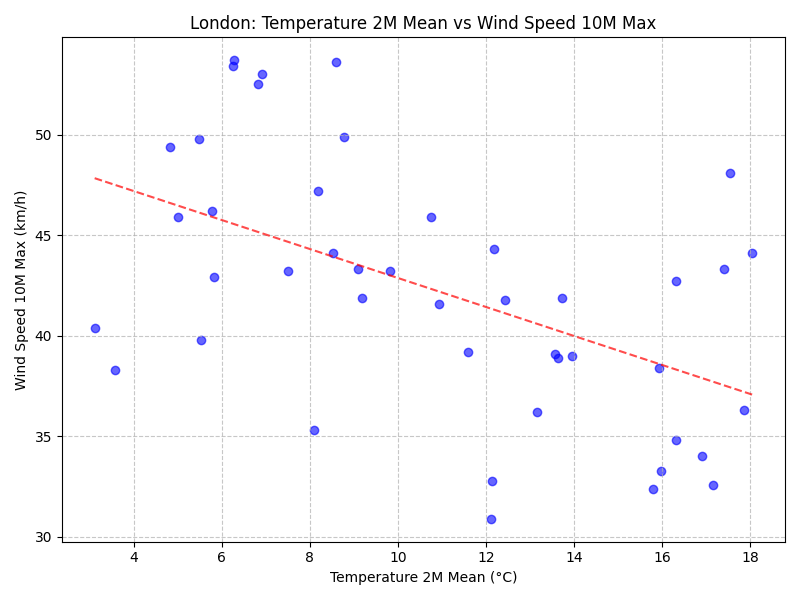
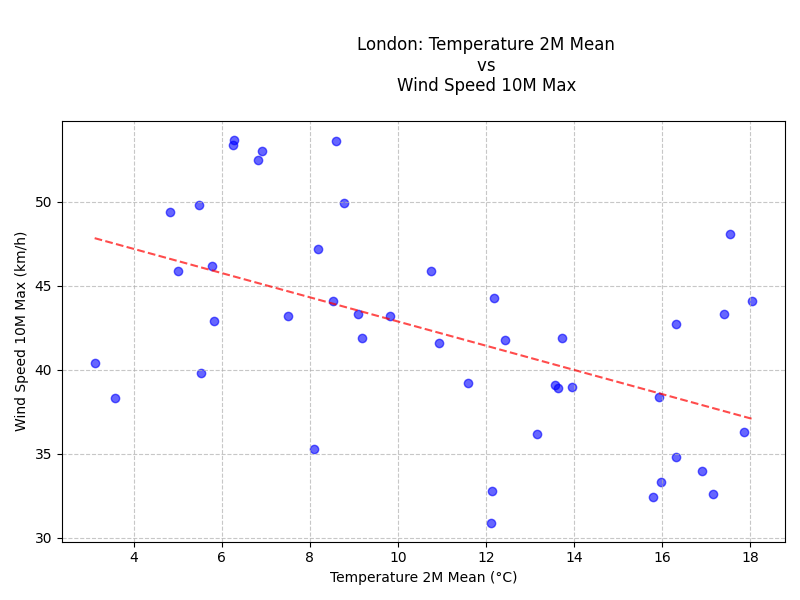
flake8

diff --git a/src/module_1/plotting.py b/src/module_1/plotting.py
@@ -2,11 +2,10 @@ import matplotlib.pyplot as plt
 import matplotlib.dates as mdates
 import seaborn as sns
 import numpy as np
-import pandas as pd
-from typing import Dict, List, Optional
+from typing import List
 import logging
 import os
-from models import JSONType, DataFrameType
+from models import DataFrameType
 from config import VARIABLES, COLORS, UNITS
 
 logger = logging.getLogger("meteo-logger")
@@ -256,7 +255,11 @@ def plot_correlation_analysis(
                             )
 
                     plt.title(
-                        f"{city}: {var1.replace('_', ' ').title()} vs {var2.replace('_', ' ').title()}"
+                        f"""
+                        {city}: {var1.replace('_', ' ').title()}
+                        vs
+                        {var2.replace('_', ' ').title()}
+                        """
                     )
                     plt.xlabel(
                         f"{var1.replace('_', ' ').title()} ({UNITS.get(var1, '')})"

diff --git a/src/module_1/api_utils.py b/src/module_1/api_utils.py
@@ -1,4 +1,4 @@
-from typing import Dict, List, Any, Optional, Union, Tuple
+from typing import List, Optional
 import logging
 import requests
 from requests.exceptions import RequestException
@@ -82,7 +82,10 @@ def validate_meteo_api_response(data: JSONType, expected_variables: List[str]) -
         daily_data = data.get("daily", {})
         if not all(var in daily_data for var in expected_variables):
             logger.error(
-                f"API response missing expected variables. Found: {list(daily_data.keys())}"
+                f"""
+                API response missing expected variables.
+                Found: {list(daily_data.keys())}
+                """
             )
             return False
 

diff --git a/src/module_1/module_1_meteo_api.py b/src/module_1/module_1_meteo_api.py
@@ -5,10 +5,9 @@ precipitation, and wind speed trends.
 """
 
 import pandas as pd
-import numpy as np
-from typing import Dict, List, Any, Optional, Union, Tuple
+from typing import List, Optional
 import logging
-from models import JSONType, DataFrameType
+from models import DataFrameType
 from api_utils import api_call, validate_meteo_api_response
 from plotting import plot_weather_data
 from config import COORDINATES, VARIABLES, API_URL

diff --git a/src/module_1/models.py b/src/module_1/models.py
@@ -1,4 +1,4 @@
-from typing import Dict, List, Any, Optional, Union, Tuple
+from typing import Dict, Any
 import pandas as pd
 
 
